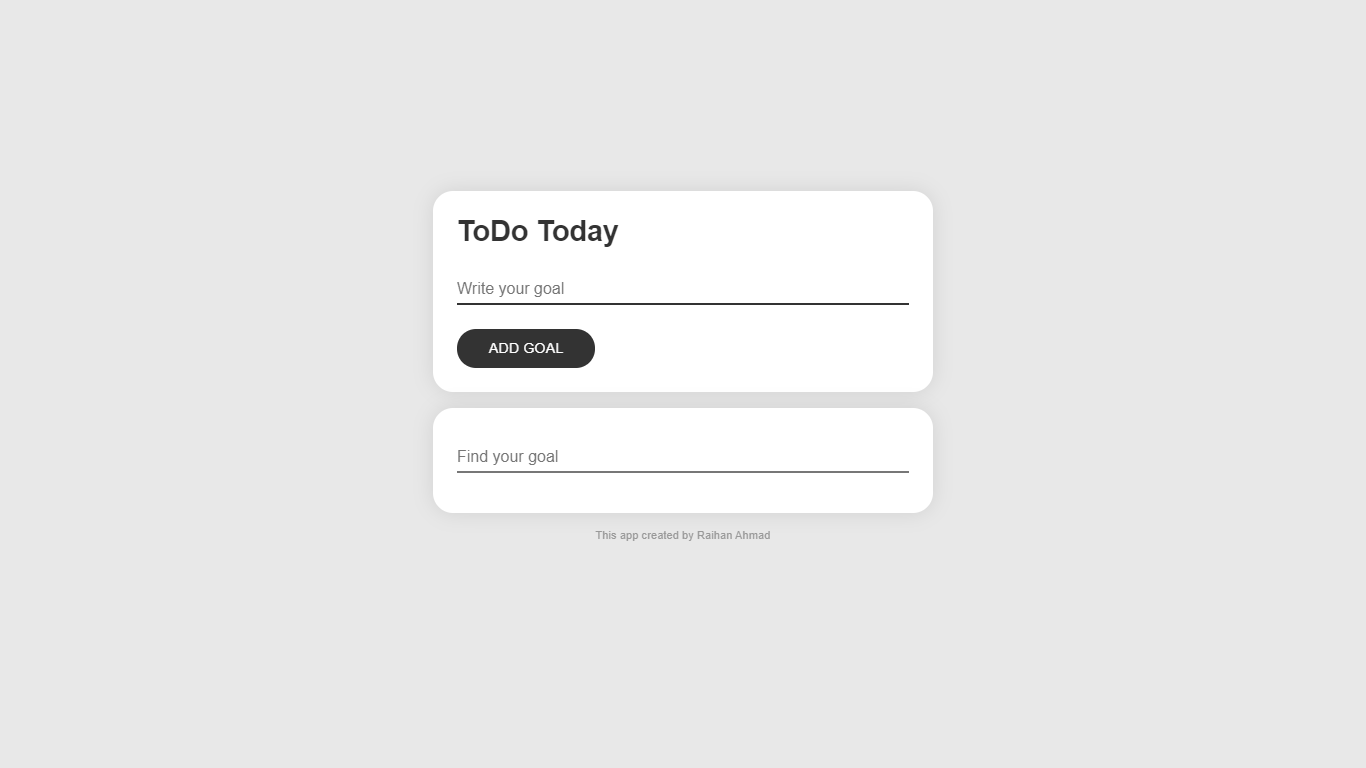
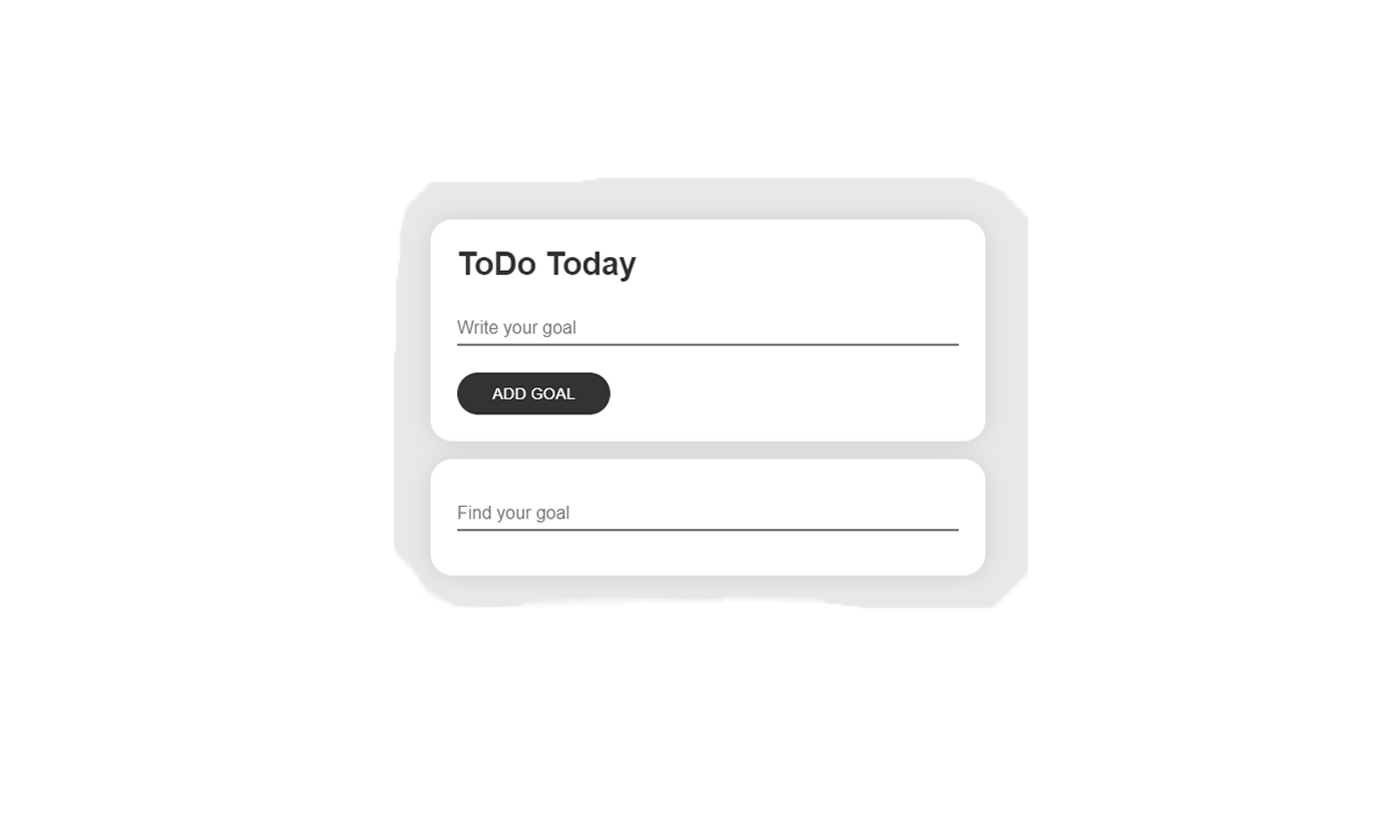
working on project showcase section

Changed region(s): [[0.3075, 0.25, 0.7072, 0.7188]]

diff --git a/index.html b/index.html
@@ -89,7 +89,7 @@
       <!-- BOGOAPPS -->
       <div id="bogoapps" class="project">
         <div class="project-showcase">
-          <div class="project-bg" data-tilt data-tilt-max="3" data-tilt-reverse="true" style="background: url('../img/projects/bogo.jpg') no-repeat center center/ cover">
+          <div class="project-bg" data-tilt data-tilt-max="3" data-tilt-reverse="true" style="background: #2f5fff">
             <div class="img" style="background: url('../img/projects/bogo.png') no-repeat center center/ cover"></div>
           </div>
         </div>
@@ -133,8 +133,8 @@
       <!-- BOMCOMAPPS -->
       <div id="bomcomapps" class="project">
         <div class="project-showcase">
-          <div class="project-bg" data-tilt data-tilt-max="3" data-tilt-reverse="true" style="background: url('../img/projects/bomcom.jpg') no-repeat center center/ cover">
-            <img src="img/projects/bogo.jpg" alt="BOGO APPS" />
+          <div class="project-bg" data-tilt data-tilt-max="3" data-tilt-reverse="true" style="background: url('../img/projects/bomcom-bg.jpg') no-repeat center center/ cover">
+            <div class="img" style="background: url('../img/projects/bomcom.png') no-repeat center center/ cover"></div>
           </div>
         </div>
 
@@ -177,8 +177,8 @@
       <!-- LUCKGAME -->
       <div id="luckgame" class="project">
         <div class="project-showcase">
-          <div class="project-bg" data-tilt data-tilt-max="3" data-tilt-reverse="true" style="background: url('../img/projects/luckgame.jpg') no-repeat center center/ cover">
-            <img src="img/projects/bogo.jpg" alt="BOGO APPS" />
+          <div class="project-bg" data-tilt data-tilt-max="3" data-tilt-reverse="true" style="background: url('../img/projects/luckgame-bg.jpg') no-repeat center center/ cover">
+            <div class="img" style="background: url('../img/projects/luckgame.png') no-repeat center center/ cover"></div>
           </div>
         </div>
 
@@ -221,8 +221,8 @@
       <!-- TODOTODAY -->
       <div id="todotoday" class="project">
         <div class="project-showcase">
-          <div class="project-bg" data-tilt data-tilt-max="3" data-tilt-reverse="true" style="background: url('../img/projects/todotody.png') no-repeat center center/ cover">
-            <img src="img/projects/bogo.jpg" alt="TODOTODAY" />
+          <div class="project-bg" data-tilt data-tilt-max="3" data-tilt-reverse="true" style="background: url('../img/projects/todotody-bg.jpg') no-repeat center center/ cover">
+            <div class="img" style="background: url('../img/projects/todotody.png') no-repeat center center/ cover"></div>
           </div>
         </div>
 
@@ -265,8 +265,8 @@
       <!-- SUPERCAR -->
       <div id="supercar" class="project">
         <div class="project-showcase">
-          <div class="project-bg" data-tilt data-tilt-max="3" data-tilt-reverse="true" style="background: url('../img/projects/superdon.jpg') no-repeat center center/ cover">
-            <img src="img/projects/bogo.jpg" alt="supercar" />
+          <div class="project-bg" data-tilt data-tilt-max="3" data-tilt-reverse="true" style="background: url('../img/projects/superdon-bg.jpg') no-repeat center center/ cover">
+            <div class="img" style="background: url('../img/projects/superdon.png') no-repeat center center/ cover"></div>
           </div>
         </div>
 

diff --git a/style/style.css b/style/style.css
@@ -566,13 +566,12 @@ img {
 }
 
 #projects-section .project .project-showcase .project-bg {
+  border-radius: 5px;
   -webkit-transform: perspective(1000px);
           transform: perspective(1000px);
   width: 70vw;
   position: relative;
   height: 80vh;
-  -webkit-transition: 1s cubic-bezier(0.445, 0.05, 0.55, 0.95);
-  transition: 1s cubic-bezier(0.445, 0.05, 0.55, 0.95);
   -webkit-transform-style: preserve-3d;
           transform-style: preserve-3d;
 }
@@ -588,15 +587,10 @@ img {
   left: 0;
   height: 75%;
   width: 75%;
-  -webkit-transform: translateZ(130px) translateX(17%) translateY(17%);
-          transform: translateZ(130px) translateX(17%) translateY(17%);
+  -webkit-transform: translateZ(130px) translateX(15.5%) translateY(15.5%);
+          transform: translateZ(130px) translateX(15.5%) translateY(15.5%);
   -webkit-transition: all .4s ease;
   transition: all .4s ease;
-}
-
-#projects-section .project .project-showcase .project-bg .img:hover {
-  -webkit-filter: grayscale(30%) blur(0);
-          filter: grayscale(30%) blur(0);
 }
 
 #projects-section .project .project-description {

diff --git a/style/style.scss b/style/style.scss
@@ -296,12 +296,13 @@
       right: 2vw;
 
       .project-bg {
+        border-radius: 5px;
         transform: perspective(1000px);
         width: 70vw;
         position: relative;
         // background-color: blue;
         height: 80vh;
-        transition: 1s cubic-bezier(0.445, 0.05, 0.55, 0.95);
+        // transition: 1s cubic-bezier(0.445, 0.05, 0.55, 0.95);
         transform-style: preserve-3d;
 
         &:hover {
@@ -309,17 +310,18 @@
         }
 
         .img {
+          // display: none;
           position: absolute;
           top: 0;
           left: 0;
           height: 75%;
           width: 75%;
-          transform: translateZ(130px) translateX(17%) translateY(17%);
+          transform: translateZ(130px) translateX(15.5%) translateY(15.5%);
           // filter: grayscale(100%) blur(1px);
           transition: all .4s ease;
 
           &:hover {
-            filter: grayscale(30%) blur(0);
+            // filter: grayscale(30%) blur(0);
           }
         }
 
